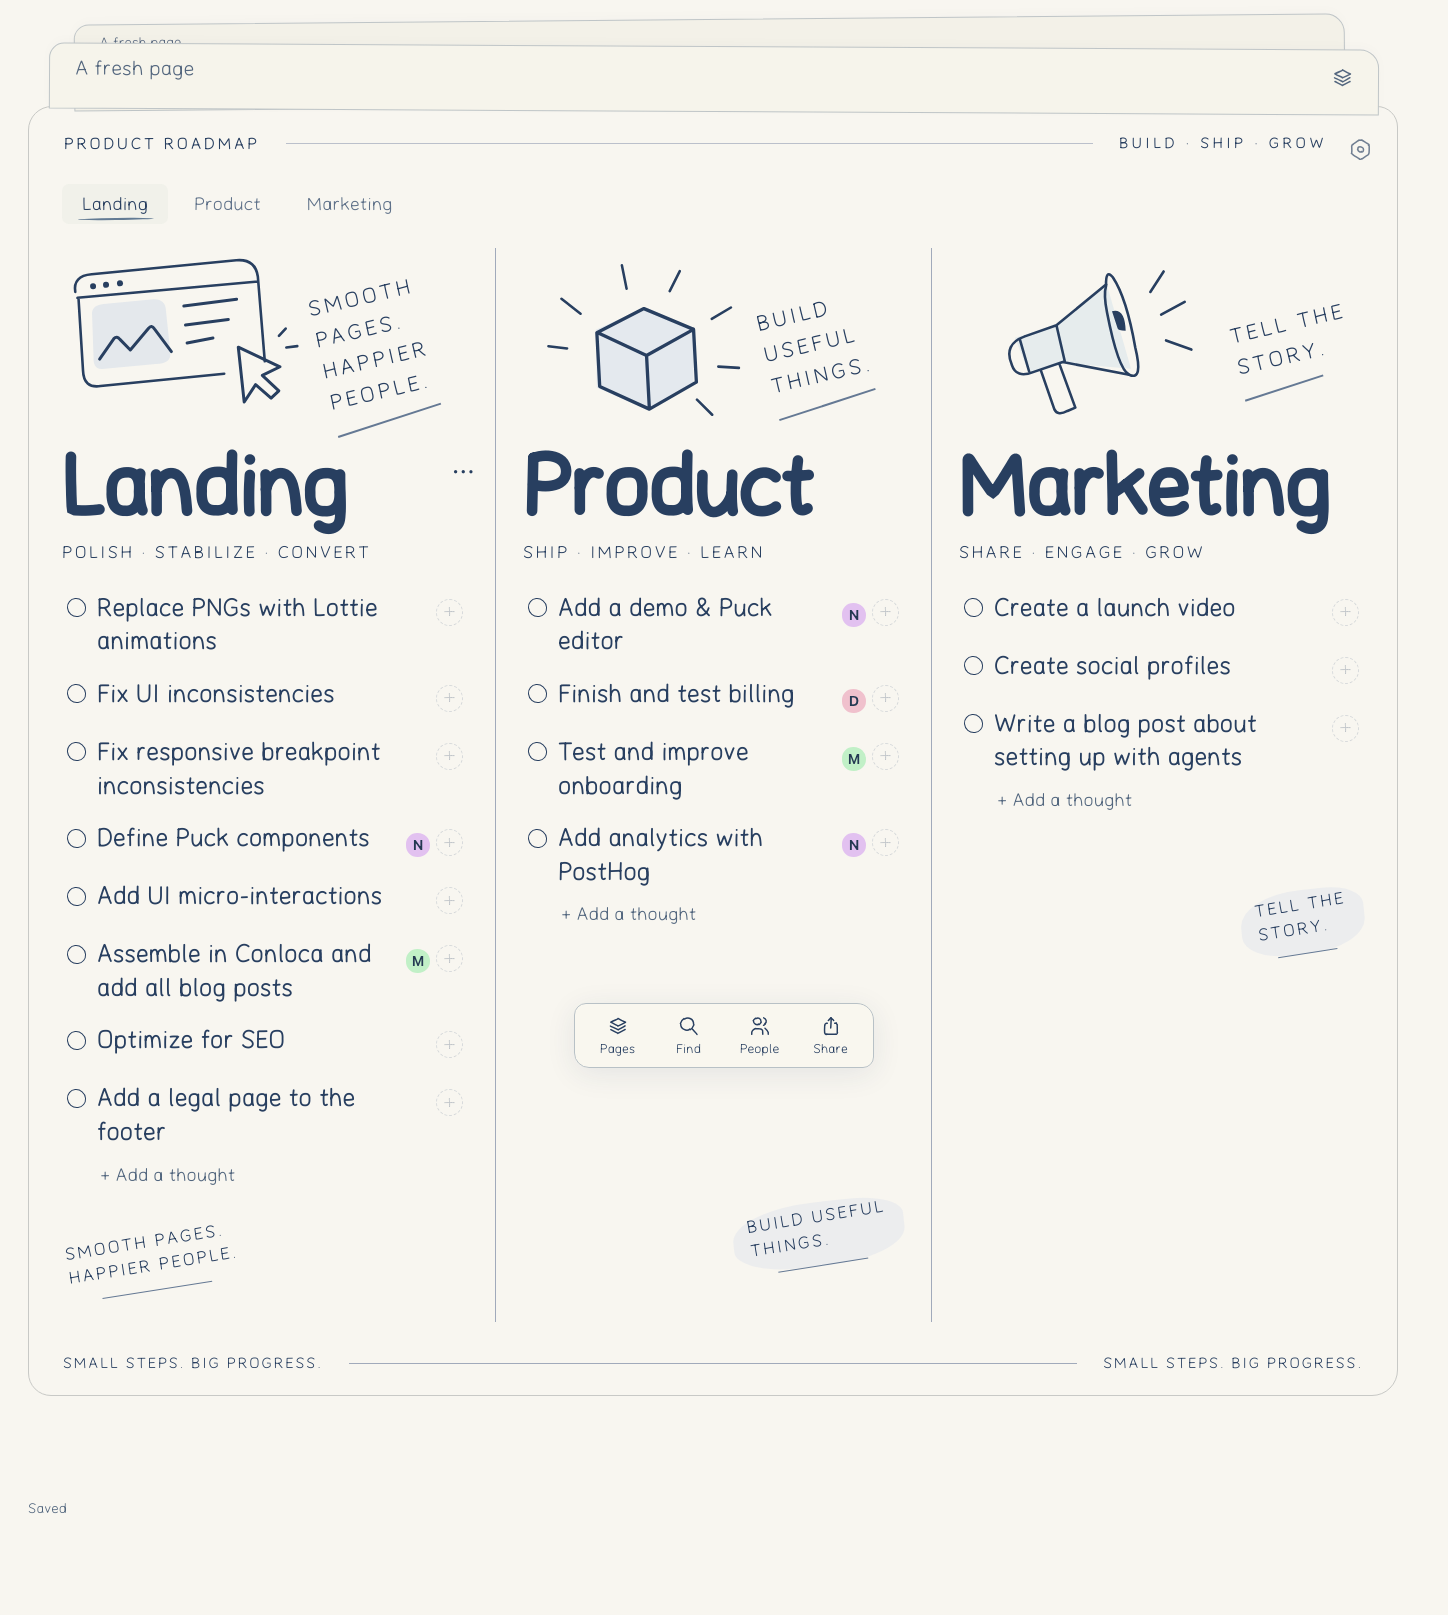
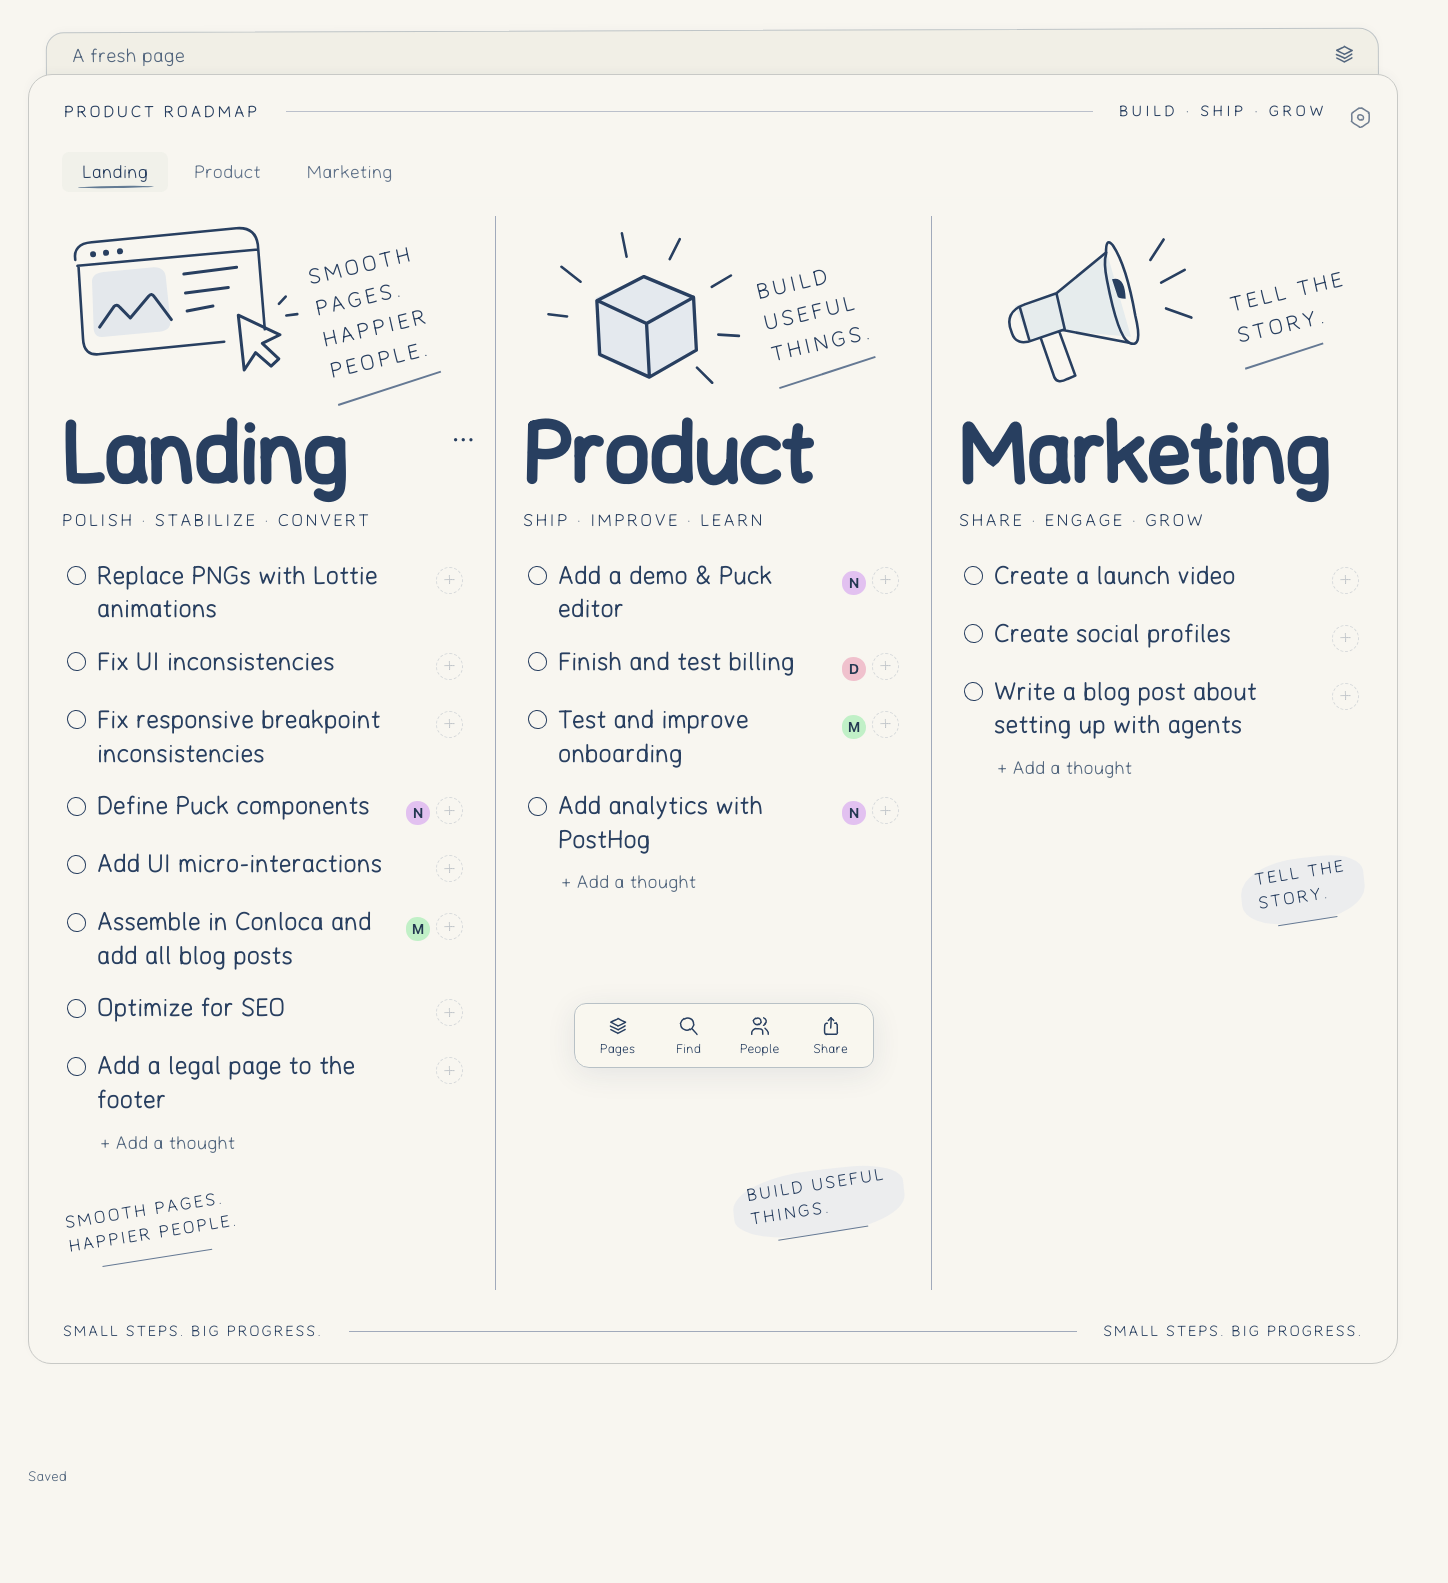
docs: record live paper-stack corrections and dynamic share previews

diff --git a/docs/REQUEST-CHECKLIST-2026-09-15.md b/docs/REQUEST-CHECKLIST-2026-09-15.md
@@ -1,6 +1,6 @@
 # Request-by-request audit of the deployed prototype
 
-Verified service: https://boards-app-gamma.vercel.app/ . Browser build `3dfae8a87229ebf6`, 2026-09-15. See LIVE-RELEASE-2026-09-15.md for actual public-browser evidence. “Live” below refers to this prototype, not the unfinished full app.
+Verified service: https://boards-app-gamma.vercel.app/ . Browser build `634694f79261ec34`, 2026-09-15. See LIVE-RELEASE-2026-09-15.md for actual public-browser evidence. “Live” below refers to this prototype, not the unfinished full app.
 
 | Request | Status | Exact scope / remaining work |
 |---|---|---|
@@ -12,7 +12,7 @@ Verified service: https://boards-app-gamma.vercel.app/ . Browser build `3dfae8a8
 | Explain other tasks and apply N+2, N=3 | Live | Up to five show all; six or more show three with expansion. Current task excluded by both board and item identity. |
 | Navigation tracks position | Live | Active mobile column follows scroll; clicks update the active section. Desktop remains a multi-column sheet. |
 | Extensive hand-drawn icon source | Live | Tabler icons processed through RoughJS at build time; only selected SVG paths shipped, not the whole library. |
-| Clickable overlapping paper stack and animated board selection | Live | Existing board titles or a fresh-page affordance on layered sheets, animated real DOM thumbnails. No Lottie player is required; reduced motion is honored. |
+| Clickable overlapping paper stack and animated board selection | Live | Opaque active sheet in front; real neighboring sheets behind it. One empty affordance only when no neighbors exist. Click/keyboard and reduced motion tested on mobile and desktop. |
 | Animated hand-drawn completion plus sound | Live | Restrained deterministic line variation and optional generated pencil sound; mute available. |
 | Share replaces bottom ellipsis; remove technical paragraphs from menus | Live | Share is last; settings are on the sheet, with useful actions rather than implementation disclaimers. Accurate limitations remain in documentation. |
 | Load/save failure loop, even before editing | Live fix | Clean connection failure is separate from a dirty draft; failed cloud read retains the draft; successful read provides Undo. Nine targeted failure scenarios pass per engine. |
@@ -23,6 +23,6 @@ Verified service: https://boards-app-gamma.vercel.app/ . Browser build `3dfae8a8
 | Live Slack/Linear/GitHub ticket previews and backlinks | Not live | Full-app adapters and fixture tests are not deployed provider integrations. |
 | Semantic duplicates, art-library matching, generated illustrations | Not live | Current live search is lexical and drawings are existing vectors. Real evaluated provider configuration remains required. |
 | Photo-to-board without a creation wizard | Not live in this prototype | An inline draft design exists in full-app work; actual vision provider and reviewed import need integration. |
-| Adaptive dynamic messenger previews for item/selection/column/space | Not live | Read-only scopes and revocation work, but deterministic server-generated OG cards are not yet shipped. |
+| Adaptive dynamic messenger previews for item/selection/column/space | Live endpoints | New /s/ links return current-state Open Graph metadata and deterministic 1200×630 PNGs. All five scopes, content updates and revocation tested over public HTTPS. Actual recipient app caching is outside our control. |
 
 Issues #5, #6 and #7 separate prototype polish, full-product gates and the P0 recovery incident. Do not silently close the remaining rows after a successful prototype release.

diff --git a/docs/STACK-AND-PREVIEWS-2026-09-15.md b/docs/STACK-AND-PREVIEWS-2026-09-15.md
@@ -1,0 +1,25 @@
+# Paper depth and live share previews
+
+Verified public service: https://boards-app-gamma.vercel.app/
+Browser build: `634694f79261ec34`. Production deployment: `dpl_XKtn6r7ZBXeEcNYKM9vEx4knd3nQ` (`boards-qfktpjr5k-inventorems-projects.vercel.app`).
+
+## Paper stack
+The active paper is now an opaque foreground surface. Neighboring sheets are separate siblings behind it, and their decorative bodies continue underneath the active sheet. Only their exposed strip receives clicks, so clicking the main page cannot activate a hidden sheet.
+With no other pages, exactly one “A fresh page” sheet is shown. With one other page, only that real title is shown. With two or more, the two nearest real titles are shown; no invented fresh-page filler is added. A single read-only shared page has no misleading creation affordance.
+The page picker marks the current board, updates aria-expanded and restores focus on close. A WebKit-specific pointer/focus regression was fixed. The distant sheet's contrast was increased after axe detected a 4.48:1 failure.
+
+## New live capability: dynamic share cards
+Share now creates `/s/<read-token>` URLs with server-rendered Open Graph metadata and a deterministic 1200×630 PNG. Board, column, single-item, selected-item and space scopes use the existing projection-aware renderer. Item cards contain the board and column title, a fitted readable task and optional faded neighbors; workspace names and unselected private contents do not enter metadata.
+The renderer runs on Bun, without an LLM or external font files. HTML and PNG are read from the current authorized shared projection, not an old generated snapshot. Revocation is checked on every request and both endpoints return 404 afterward. Responses use no-store; recipient applications can still keep their own copies after receiving a preview.
+Older `#share=...` links remain readable. Copy a new link with Share to receive the crawler-readable URL format. No messages were sent to external workspaces to test unfurling; the actual public HTML metadata and PNG endpoints were tested directly.
+
+## Evidence
+Native Chromium and WebKit tested 1/2/3/6-page stacks at widths 320, 393, 640, 768, 1024, 1448 and 1920. Assertions check hit testing at the overlap, opaque foreground paint, one placeholder, keyboard reopening and no horizontal overflow. Initial tests reproduced three failing placeholder cases before the fix.
+The full prototype UI suites (15 Chromium and 14 WebKit groups) and nine loading-recovery scenarios per engine pass. Unit suite now has 149 cases; this is not a whole-product 2000-case/80%-coverage claim.
+Unmocked public tests created isolated notebooks, verified all five preview scopes, verified a saved edit changes both HTML metadata and PNG, then revoked every test share and observed 404 for HTML and image. The existing live smoke also passed save/independent read, offline/retry and the supplied user's notebook read without writes. Agent-browser confirmed 15 user tasks, Saved, current build and exactly one fresh sheet.
+
+![One-page stack, real public browser](screenshots/boards-live-0915-mobile.png)
+![Multiple-page stack, explicit fixture browser](screenshots/stack-pages-mobile.png)
+![Actual server-rendered item PNG](screenshots/share-item-preview.png)
+
+Source integration is still pending: the code is preserved/staged on the Mac, but the configured independent review backend timed out again and the commit gate has not been bypassed. This deployment and its tests are real; a merged source release is a separate outstanding gate.

diff --git a/README.md b/README.md
@@ -6,6 +6,10 @@ Paper-like editable pages, hosted on Vercel with the isolated `boards_prototype`
 
 **Live update, 2026-09-15:** browser build `3dfae8a87229ebf6`. [Verified public release](docs/LIVE-RELEASE-2026-09-15.md) · [Every requested feature and what remains](docs/REQUEST-CHECKLIST-2026-09-15.md).
 
+## Latest public update
+
+Build `634694f79261ec34`: neighboring sheets now sit behind the active paper, duplicate fresh-page placeholders are removed, and shared URLs now have server-generated current-state metadata and PNG previews. [Release details, screenshots and verification](docs/STACK-AND-PREVIEWS-2026-09-15.md).
+
 ## Current prototype work
 
 Public app-shell service worker with stale-while-revalidate, one bundled application entry and background font construction. A new sample page paints before cloud acknowledgement; a returning editing tab can restore its own snapshot while revalidating the version. Cloud failures and conflicts remain explicit. Unsaved drafts do not expire with the clean read cache.
@@ -51,4 +55,4 @@ Tabler's MIT icons are converted at build time through RoughJS (MIT); neither th
 
 [Roadmap](ROADMAP.md) · [Execution failure analysis](docs/PROCESS.md) · [Persisted user rules](docs/USER_RULES.json) · [Agent entry point](AGENTS.md) · [Prototype polish #5](https://github.com/ultrabricks/boards-app/issues/5) · [Full-product gaps #6](https://github.com/ultrabricks/boards-app/issues/6)
 
-Real OAuth/linking, email, authenticated provider integrations, semantic matching, generated artwork, photo transcription and server-generated messenger cards remain unfinished full-product gates. The original `scriptboard` team database is not replaced by this prototype. The prototype is bounded to 200 notebooks, 50 shares per notebook and a 512 KB document; it is not an audited multi-tenant identity platform.
+Real OAuth/linking, email, authenticated provider integrations, semantic matching, generated artwork, photo transcription remain unfinished full-product gates. Server-generated share cards are now live; client-side unfurl caching remains controlled by recipients. The original `scriptboard` team database is not replaced by this prototype. The prototype is bounded to 200 notebooks, 50 shares per notebook and a 512 KB document; it is not an audited multi-tenant identity platform.

diff --git a/ROADMAP.md b/ROADMAP.md
@@ -64,3 +64,12 @@ Read AGENTS.md, docs/USER_RULES.json and docs/PROCESS.md first. Main source is s
 User-reported prototype issues are tracked in #5; full-product gaps in #6. A working prototype with better UX must not imply that live OAuth, account linking, semantic AI or messenger OG have been shipped.
 
 Process acceptance: a remote `exit 0` is not sufficient if a shell command masked test failure. Rate limits are handled with pauses, failed mutations are read back before retry, and explicit safety blocks are not bypassed. No fixed cause/timer is assigned to Thinking failed without evidence.
+
+## 2026-09-15 evening: paper depth and share-card release
+Public browser build is now `634694f79261ec34`, Vercel deployment `dpl_XKtn6r7ZBXeEcNYKM9vEx4knd3nQ` on the existing gamma address.
+- Done and live: opaque active sheet in front of true neighboring-paper layers; one fresh-sheet fallback; keyboard focus/current-page state; contrast correction.
+- Done and live: crawler-readable `/s/` URLs, server-rendered metadata and 1200×630 PNGs for board/column/item/selection/space, current-state reads, 404 after revocation. No LLM dependency.
+- Verified: 149 unit cases; 15 Chromium + 14 WebKit groups; nine recovery scenarios per engine; 1/2/3/6 pages at seven widths in each engine. Public unmocked save/read/offline/retry and exact user's board read passed. Five share scopes and updated/revoked images checked over HTTPS.
+- Not closed: independent source-review/commit/merge gate. One bounded attempt on the previously configured GLM backend again timed out for all three roles. Do not fabricate a reviewer verdict or bypass the hook.
+- Remaining product gates: authenticated accounts/linking/email; actual workspace integrations and backlinks; semantic/AI/image/photo workflows; full Bun/Nx consolidation and whole-application 2000+/80% coverage. Recipient messenger caching is not a server-controlled guarantee.
+Release evidence and screenshots: docs/STACK-AND-PREVIEWS-2026-09-15.md. New code is staged/preserved locally; documentation commits and public deployment are separate from merged source delivery.
